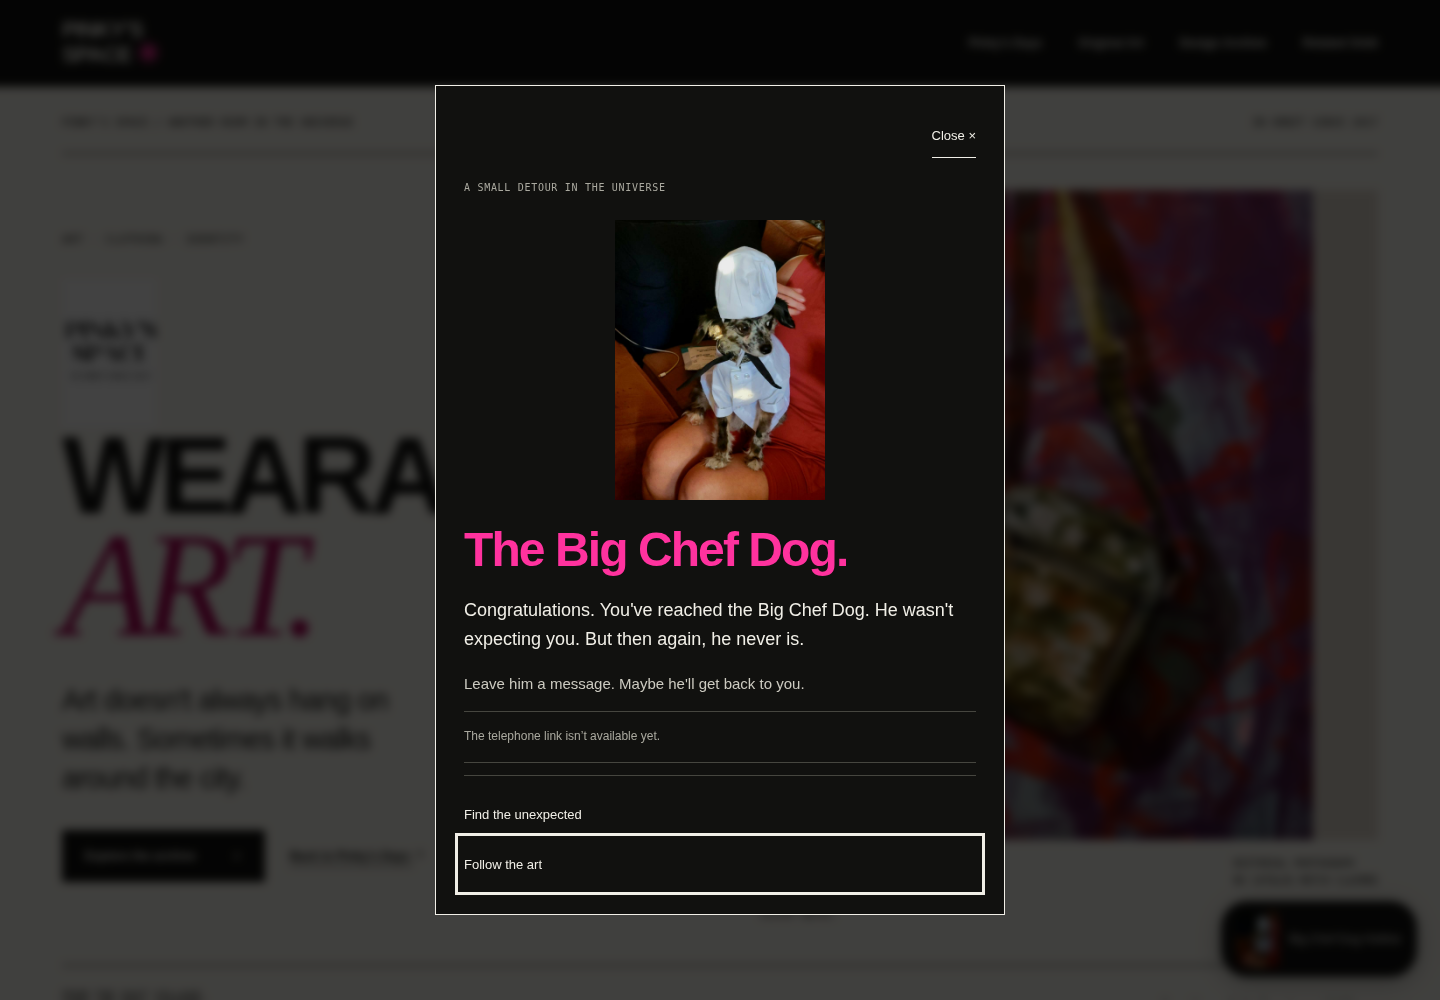
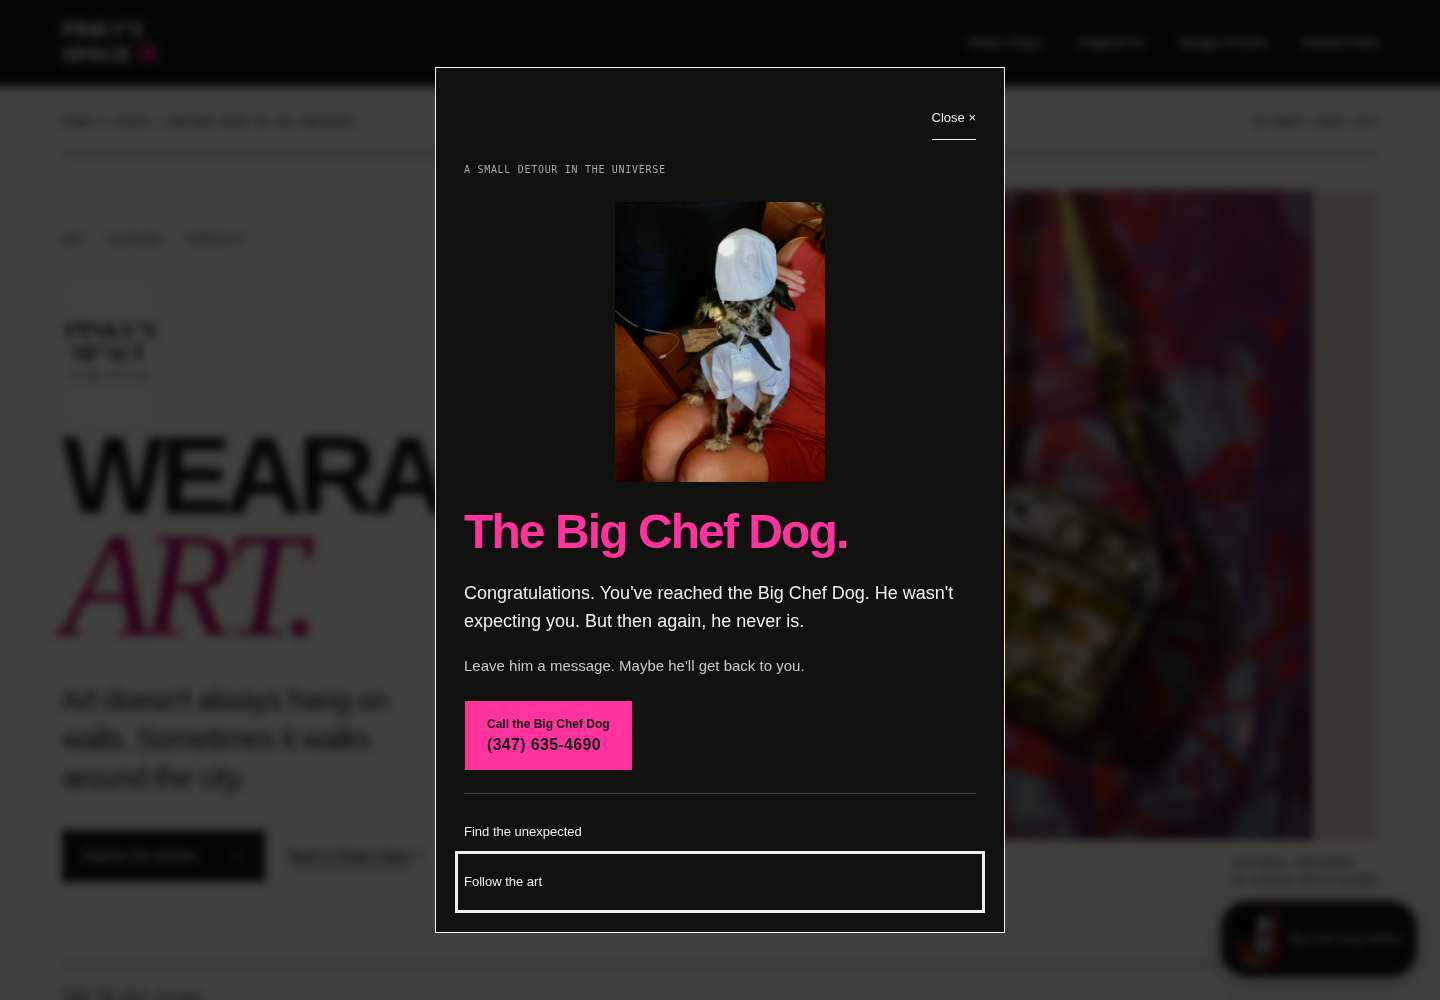
Enable the owner-confirmed Big Chef Dog hotline

diff --git a/assets/hotline.js b/assets/hotline.js
@@ -14,7 +14,7 @@
   const logoReady = verifiedImage(identity.originalLogo, "originalArtworkConfirmed");
   const portraitReady = verifiedImage(identity.chefPortrait, "originalHalloweenPhotoConfirmed");
   const phone = identity.publicTelephone;
-  const telephoneReady = Boolean(phone && sourced(phone) && phone.publicHotlineUseConfirmed === true && /^\+[1-9]\d{7,14}$/.test(phone.e164 || "") && phone.e164.endsWith("212"));
+  const telephoneReady = Boolean(phone && sourced(phone) && phone.publicHotlineUseConfirmed === true && /^\+[1-9]\d{7,14}$/.test(phone.e164 || ""));
   const image = (asset, className) => {
     const element = document.createElement("img");
     element.src = localSource(asset.src);
@@ -70,9 +70,10 @@
   greeting.id = "chef-greeting";
   inner.append(title, greeting, node("p", "Leave him a message. Maybe he'll get back to you.", "chef-message"));
   if (!preview && telephoneReady) {
-    const call = node("a", "Call the Big Chef Dog", "button pink chef-call");
+    const call = node("a", "", "button pink chef-call");
     call.id = "chef-call";
     call.href = "tel:" + phone.e164;
+    call.append(node("span", "Call the Big Chef Dog"), node("span", phone.display || phone.e164, "chef-call-number"));
     inner.append(call);
   } else {
     inner.append(node("p", preview ? "The telephone link is not available in this preview." : "The telephone link isn’t available yet.", "chef-preview-note"));

diff --git a/content/identity.js b/content/identity.js
@@ -1,5 +1,5 @@
-/* Byte-identical user-supplied originals; provenance: review/identity-sources.json.
-   No verified public telephone number has been supplied. */
+/* User-supplied originals and owner-confirmed public Google Voice hotline.
+   Provenance: review/identity-sources.json. */
 window.PINKYS_IDENTITY = {
   originalLogo: {
     src: "assets/identity/pinkys-space-original-logo.jpg",
@@ -19,5 +19,11 @@ window.PINKYS_IDENTITY = {
     sourceReference: "User-supplied original 1000002978.jpg; review/identity-sources.json#chef-portrait",
     verifiedAt: "2026-10-30"
   },
-  publicTelephone: null
+  publicTelephone: {
+    e164: "+13476354690",
+    display: "(347) 635-4690",
+    publicHotlineUseConfirmed: true,
+    sourceReference: "Owner confirmed Big Chef Dog hotline; Google Voice settings screenshot 1000002984.jpg",
+    verifiedAt: "2026-10-30"
+  }
 };

diff --git a/assets/hotline.css b/assets/hotline.css
@@ -13,7 +13,8 @@
 .chef-dialog .chef-greeting{font-size:18px;line-height:1.6}
 .chef-dialog .chef-message{font-size:15px;color:#cccac0}
 .chef-dialog .chef-preview-note{font-size:12px;color:var(--muted);padding-block:15px;border-block:1px solid var(--line)}
-.chef-call{margin:6px 0 22px}
+.chef-call{margin:6px 0 22px;max-width:100%;flex-direction:column;align-items:flex-start;gap:5px}
+.chef-call-number{font-size:16px;letter-spacing:.02em}
 .chef-routes{display:grid;gap:6px;border-top:1px solid var(--line);padding-top:16px}
 .chef-routes a{display:flex;align-items:center;min-height:44px;font-size:13px;text-decoration:none}
 .chef-routes a:hover{color:var(--pink)}

diff --git a/review/fashion/MISSING-AND-READINESS.md b/review/fashion/MISSING-AND-READINESS.md
@@ -8,7 +8,7 @@ The accessible historical export has been fully inventoried: 802 source rows, 71
 
 The separate `content/related-brand-catalog.json` contains 25 individually read official HatsRx pages and 31 image references, including six artwork/inspiration images. HatsRx remains a separate brand and no records or stock have been merged into Pinky’s catalog. Its dollar-symbol prices are recorded with unknown ISO currency. The public references are editorial links, not Pinky’s purchase buttons.
 
-## Remaining catalog and telephone verification
+## Remaining catalog verification
 
 | Missing verification | Scope | Required evidence |
 | --- | --- | --- |
@@ -18,9 +18,8 @@ The separate `content/related-brand-catalog.json` contains 25 individually read 
 | Available variants and inventory | All 79 historical groups | Current variation and availability data; historical quantities such as 100000 are not live stock evidence |
 | Matched original product photography | All 79 historical groups | Original images mapped to exact item IDs; gallery/artwork pictures cannot stand in for these |
 | HatsRx image files | 31 source references | Source binaries and visual verification before local publication; image host is blocked here |
-| Full Google Voice number ending 212 | Not verified | Full number and evidence it is approved for public hotline use |
 
-The user subsequently attached the original logo (1000002955.jpg) and Big Chef Dog Halloween photograph (1000002978.jpg). Both were visually inspected and copied byte-for-byte into `assets/identity/`, retaining their full frames and original color profiles. [Identity provenance](../identity-sources.json) records their exact hashes and dimensions. The originals now appear in the draft; these two asset gaps are resolved. The full public hotline number remains unverified.
+The user subsequently attached the original logo (1000002955.jpg) and Big Chef Dog Halloween photograph (1000002978.jpg). Both were visually inspected and copied byte-for-byte into `assets/identity/`, retaining their full frames and original color profiles. [Identity provenance](../identity-sources.json) records their exact hashes and dimensions. The originals now appear in the draft; these two asset gaps are resolved. The owner subsequently confirmed (347) 635-4690 as Big Chef Dog’s public Google Voice number and supplied matching settings evidence. The normal guide now links to `tel:+13476354690`.
 
 ## Square link evidence
 
@@ -32,7 +31,7 @@ Direct access to Square returned HTTP CONNECT 403. The web reader returned minim
 
 - `fashion.html`: editorial entrance, authentic supplied portfolio photograph, all 71 exact archive names, seven source-supported categories, search, native source disclosures, and separate HatsRx references. All entries remain accessible without JavaScript.
 - `index.html#wearable-art`: homepage entry into the new room. Existing artwork, history chapters, gallery, five priced artworks and commerce destinations remain available.
-- `content/identity.js`: verified original logo and portrait are configured. The floating non-AI guide uses the supplied portrait, approved copy and existing story/art links. Telephone access stays disabled because the full public-use number is unverified. Local `?hotline-preview=1` remains available for review.
+- `content/identity.js`: verified original logo and portrait are configured. The floating non-AI guide uses the supplied portrait, approved copy and existing story/art links. Telephone access uses the owner-confirmed public Google Voice number (347) 635-4690. Local `?hotline-preview=1` remains available for review.
 - The original-logo hook renders the supplied historical logo image faithfully. No redraw, crop, recoloring, generative edit or substitute asset was used.
 - Portfolio photograph 03 provides editorial context only; no catalog match, title, price or artist credit has been invented. Visual reinspection corrected two inherited descriptions: image11 shows stencils and paint supplies rather than a jacket; image13 shows a painted panel rather than fabric. All 46 image files are byte-identical to the checkpoint.
 
@@ -40,4 +39,4 @@ Direct access to Square returned HTTP CONNECT 403. The web reader returned minim
 
 Work continues on `codex/pinkys-universe-review` from `b46ad03383a229ff3b202fda1f9832baf81181ce`. The recovered checkout was clean, with no unpublished local edits to overwrite. Prior review commits remain ancestors. The original Drive images were not changed. The complete raw historical export and excluded rows are retained in `/workspace/pinkys-source-audit`, outside the public website source. Unrelated environments were not used for runtime packages or testing.
 
-The original identity assets are integrated. This is an implemented historical fashion archive, not a completed current commerce integration. The owner has approved publication of this historical archive despite the outstanding current-catalog mapping, choosing to review and adjust the site after release. Current product purchase buttons and telephone access remain unavailable until their actual destinations are supplied and verified. Browser results and screenshots are recorded alongside this report; emulated mobile Chromium checks do not replace Safari, physical-device or assistive-technology review.
+The original identity assets are integrated. This is an implemented historical fashion archive, not a completed current commerce integration. The owner has approved publication of this historical archive despite the outstanding current-catalog mapping, choosing to review and adjust the site after release. Current product purchase buttons remain unavailable until their actual Square destinations are supplied and verified. The hotline telephone destination is now confirmed and enabled. Browser results and screenshots are recorded alongside this report; emulated mobile Chromium checks do not replace Safari, physical-device or assistive-technology review.

diff --git a/review/HOTLINE-ASSETS.md b/review/HOTLINE-ASSETS.md
@@ -1,6 +1,6 @@
 # Original identity and Big Chef Dog integration
 
-Updated October 30, 2026. The reviewed site is authorized for publication; no telephone number has been added.
+Updated October 30, 2026. The reviewed site and subsequent hotline update are authorized for publication.
 
 The user supplied the original Pinky’s Space logo (`1000002955.jpg`, 812 × 1280) and Big Chef Dog Halloween portrait (`1000002978.jpg`, 960 × 1280) after the initial catalog audit. Both were visually inspected and copied byte-for-byte to `assets/identity/`. [identity-sources.json](identity-sources.json) records original filenames, exact SHA-256 hashes, byte counts, dimensions and user-supplied provenance. No crop, redraw, filters, recoloring or generative editing was applied. The original frames and embedded color profiles remain intact; the supplied JPEGs contain no EXIF tags.
 
@@ -10,9 +10,9 @@ The discreet floating guide uses the original portrait, the approved greeting an
 
 ## Telephone status
 
-The full Google Voice number ending in 212 is still unverified. `content/identity.js` leaves `publicTelephone` null. No `tel:` link or personal contact candidate appears in the draft. The dialog states that the telephone link is not available yet.
+The owner confirmed **(347) 635-4690** as Big Chef Dog’s public number and supplied a Google Voice settings screenshot showing that same full number. `content/identity.js` records `+13476354690`; the normal guide displays (347) 635-4690 and links to `tel:+13476354690`. This replaces the earlier unverified ending-212 hint. The screenshot contains unrelated account details and is kept outside public website source; only minimal provenance is recorded in `identity-sources.json`.
 
-The authentic portrait enables the non-AI guide independently of telephone access. A telephone link is added only when the configured full E.164 number ends in 212, has dated source evidence, and is explicitly confirmed suitable for public hotline use. This implements the user’s existing authorization; it does not introduce a new approval requirement. No unrelated footer number is used as a substitute.
+The authentic portrait enables the non-AI guide independently of telephone access. A telephone link is added only when the configured full E.164 number is valid, has dated source evidence, and is explicitly confirmed suitable for public hotline use. This implements the user’s existing authorization; it does not introduce a new approval requirement. No unrelated footer number is used as a substitute.
 
 The original-logo and portrait fields require local image paths, actual dimensions, dated source references and explicit original-asset authenticity flags. Missing or unverified originals remain gated. Removing both assets from configuration leaves the normal guide dormant rather than substituting artwork.
 
@@ -24,7 +24,7 @@ Open `index.html` or `fashion.html` locally to review the normal portrait launch
 - Launcher: `#chef-launcher`; dialog: `#chef-dialog`; close: `#chef-close`.
 - Greeting: `#chef-greeting`; approved second paragraph: `.chef-message`.
 - Portraits: `.chef-launcher-portrait` and `.chef-portrait`.
-- Telephone anchor: `#chef-call`, absent while the public number is unverified.
+- Telephone anchor: `#chef-call`, linking to `tel:+13476354690` in normal mode; absent in local preview or if verification data is missing/invalid.
 - Existing story/art links: `.chef-routes a`.
 
-Browser checks verify original file hashes, natural dimensions and decoding, complete-frame styles, normal and preview guide interactions, exact approved copy, Tab containment, Escape/Close, focus restoration, no telephone link, missing-asset fallback and responsive widths. Current screenshots and results are linked in [fashion verification](fashion/VERIFICATION.md).
+Browser checks verify original file hashes, natural dimensions and decoding, complete-frame styles, normal and preview guide interactions, exact approved copy, Tab containment, Escape/Close, focus restoration, the exact displayed number and telephone URI, keyboard activation with navigation prevented, missing/invalid-number gating, missing-asset fallback and responsive widths. The checks do not place a call. Current screenshots and results are linked in [fashion verification](fashion/VERIFICATION.md).

diff --git a/review/RELEASE-2026-10-30.md b/review/RELEASE-2026-10-30.md
@@ -4,8 +4,12 @@ The owner authorized publication on October 30, 2026, and asked to review, adapt
 
 The release publishes the tested Wearable Art archive and original Pinky’s Space logo/Big Chef Dog integration from `codex/pinkys-universe-review` to the existing GitHub Pages site at `https://pinkysspace.com`. The last reviewed application commit is `4813278041840134b96fa22cac999eb0d949598a`; subsequent changes only update release documentation. The prior production commit is `a07f6ecd2433e5395346e52ed8b8e48709e82e1f`.
 
-The archive contains 71 exact historical product names, 79 provisional source groups and 716 historical variants. The separate HatsRx section contains 25 official design references. Historical source labels remain visible. Existing Square shopping destinations and artwork checkout behavior are preserved; the release does not create product records, prices, inventory, payment settings or replacement checkout. Individual purchase buttons remain absent where exact Square destinations are not mapped. Big Chef Dog is a non-AI guide using the supplied original photograph and approved copy; its telephone link remains absent because the full public number has not been supplied.
+The archive contains 71 exact historical product names, 79 provisional source groups and 716 historical variants. The separate HatsRx section contains 25 official design references. Historical source labels remain visible. Existing Square shopping destinations and artwork checkout behavior are preserved; the release does not create product records, prices, inventory, payment settings or replacement checkout. Individual purchase buttons remain absent where exact Square destinations are not mapped. Big Chef Dog is a non-AI guide using the supplied original photograph and approved copy; the owner has now supplied and confirmed its Google Voice number (347) 635-4690 for the follow-up hotline activation below.
 
 Fresh source validation passed, and independent release QA verified all 53 protected source/image hashes and the two supplied original JPEG hashes. Both browser suites passed on the unchanged application source, including desktop/mobile layouts, filtering, keyboard controls, no-JavaScript access, normal/preview guide interactions and six responsive widths. Ten fashion/guide captures and the existing homepage/gallery captures are available under `review/screenshots/`.
 
-See [verification](fashion/VERIFICATION.md), [identity provenance](identity-sources.json), and [remaining source gaps](fashion/MISSING-AND-READINESS.md). Current-catalog mapping and a public hotline number can be added in later verified iterations.
+See [verification](fashion/VERIFICATION.md), [identity provenance](identity-sources.json), and [remaining source gaps](fashion/MISSING-AND-READINESS.md). Current-catalog mapping can be added in later verified iterations.
+
+## Big Chef Dog hotline activation
+
+The owner confirmed (347) 635-4690 as Big Chef Dog’s public number and supplied matching Google Voice settings evidence. The follow-up release enables `tel:+13476354690` on both the homepage and fashion-page guide, with that same number displayed in the call button. The earlier ending-212 hint is superseded. Local preview continues to omit calling, and missing/invalid verification data suppresses the link. Tests do not place real calls. The settings screenshot and unrelated account details are not copied into public website source. This iteration preserves artwork, catalog records, checkout destinations, existing identity images and the approved greeting.

diff --git a/README.md b/README.md
@@ -9,7 +9,7 @@ Publication of the reviewed Wearable Art site was authorized on October 30, 2026
 - `content/related-brand-catalog.json`: separate official HatsRx source records.
 - `review/fashion/source-manifest.json` and `review/fashion/inventory-summary.csv`: source scope, access limits, provenance and inventory summary.
 - `review/build-fashion.py`: optional deterministic regeneration of the checked-in fashion HTML from its two JSON source files.
-- `content/identity.js`, `assets/hotline.js`, `assets/hotline.css`: verified original-logo and Big Chef Dog integration. The floating guide uses the supplied Halloween portrait and approved copy; no telephone link is exposed. See [identity provenance and hotline status](review/HOTLINE-ASSETS.md).
+- `content/identity.js`, `assets/hotline.js`, `assets/hotline.css`: verified original-logo and Big Chef Dog integration. The floating guide uses the supplied Halloween portrait and approved copy, with a call button for the owner-confirmed Google Voice number (347) 635-4690. See [identity provenance and hotline status](review/HOTLINE-ASSETS.md).
 
 Open `index.html` in a modern browser, or serve this directory with `python -m http.server 8000` and visit the URL printed by that command. No checkout is loaded by the homepage. The separate `checkout.html` loads the original Stripe button only after an explicit click.
 
@@ -42,4 +42,4 @@ The original `CNAME` and `pinky-final-wave.html` are unchanged. The previous pro
 
 All 23 photos from the supplied Drive portfolio are integrated in the gallery. Image 19 also anchors the entrance and the Artists archive chapter. Captions describe visible content; no unverified artwork titles, artist credits, or matches to the five priced products have been assumed. Derivatives retain the full image without cropping or creative alteration and omit EXIF metadata. The complete derivative set is 7,751,884 bytes (about 7.4 MiB); responsive loading avoids requesting every size at once.
 
-Earlier artwork release notes below describe the prior checkpoint. The owner has now authorized publication of the reviewed fashion archive and original identity integration. Exact artwork titles and credits, historical garden/venue photographs, current Square product mapping, public hotline suitability and founder visual review remain open. The original logo and dog portrait were subsequently supplied and are integrated faithfully. No substitute historical or product imagery has been fabricated.
+Earlier artwork release notes below describe the prior checkpoint. The owner has now authorized publication of the reviewed fashion archive and original identity integration. Exact artwork titles and credits, historical garden/venue photographs, current Square product mapping and continued founder visual review remain open. The original logo and dog portrait were subsequently supplied and are integrated faithfully. No substitute historical or product imagery has been fabricated.

diff --git a/review/fashion/VERIFICATION.md b/review/fashion/VERIFICATION.md
@@ -9,7 +9,7 @@ October 30, 2026. Review branch: `codex/pinkys-universe-review`. Publication was
 | Source, syntax, HTML/ARIA references, local files, CSS and existing behavior | Pass | `npm run validate` |
 | Existing homepage, archive, portfolio and commerce-route regression | Pass | [browser-results.json](../browser-results.json) |
 | Fashion identity, source groups, filters, search, disclosures and fallback | Pass | [fashion-browser-results.json](../fashion-browser-results.json) |
-| Verified original identity images and non-AI guide | Pass | Exact supplied JPEG hashes, complete-frame rendering, image decoding, normal and preview guide, keyboard controls, missing-asset fallback, no phone link |
+| Verified original identity images and non-AI guide | Pass | Exact supplied JPEG hashes, complete-frame rendering, image decoding, normal and preview guide, keyboard controls, missing-asset fallback, verified public call link in normal mode and suppression in preview |
 | Image and protected-source preservation | Pass | [preservation-results.json](../preservation-results.json): all 53 protected files match the checkpoint |
 | Current Square product prices, currency, variants, stock and checkout | Not verified | Source access blocked/incomplete; zero item-level purchase buttons |
 | Original logo and Halloween portrait | Integrated | User-supplied originals, byte-identical source copies; [identity provenance](../identity-sources.json) |
@@ -30,7 +30,7 @@ The existing browser suite verifies all 46 responsive WebP variants decode at th
 | Big Chef Dog guide | [Desktop](../screenshots/hotline-desktop.png) | [Mobile](../screenshots/hotline-mobile.png) |
 | Local hotline preview | [Desktop](../screenshots/hotline-preview-desktop.png) | [Mobile](../screenshots/hotline-preview-mobile.png) |
 
-Existing homepage, gallery and artwork-viewer screenshots were also refreshed by the regression suite. These are actual browser captures. Both guide modes show the original Halloween portrait and approved copy. The telephone link remains absent until a suitable public number is verified.
+Existing homepage, gallery and artwork-viewer screenshots were also refreshed by the regression suite. These are actual browser captures. Both guide modes show the original Halloween portrait and approved copy. The normal guide displays the owner-confirmed (347) 635-4690 and links to `tel:+13476354690`; preview mode omits the call link. Browser checks inspect and activate the link with default navigation prevented, without placing a real call.
 
 ## Reproduction
 
